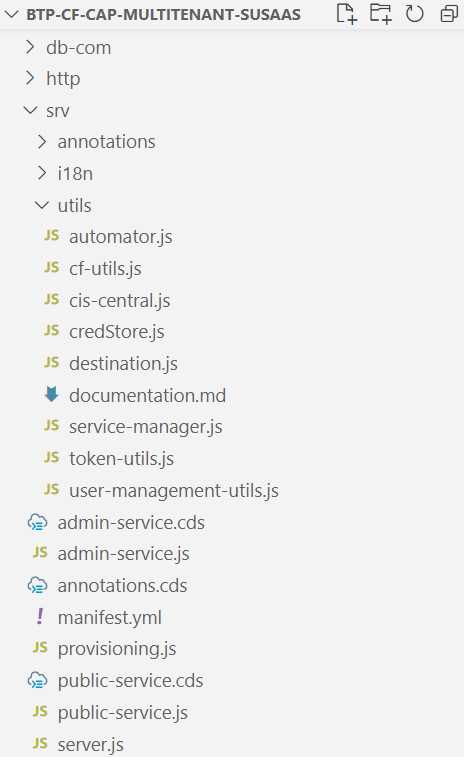
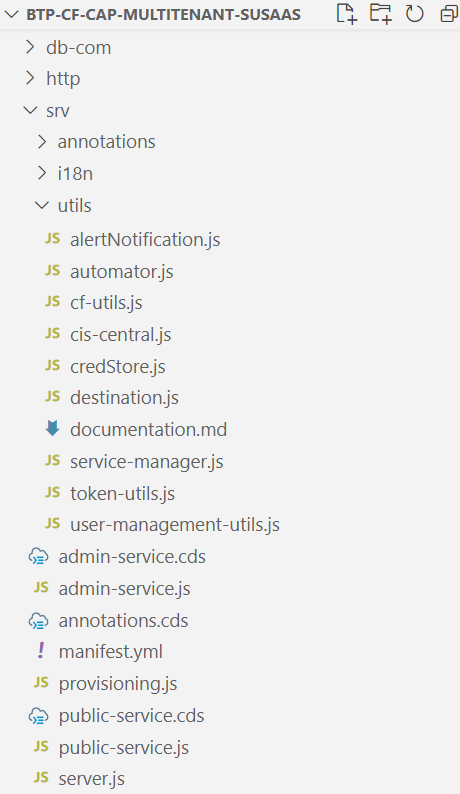
Further documentation updates

Changed region(s): [[0.0304, 0.0, 0.6696, 1.0], [0.7, 0.0, 1.0, 0.0304], [0.0, 0.0, 0.0304, 0.0304]]

diff --git a/docu/2-basic/7-explore-the-components/README.MD b/docu/2-basic/7-explore-the-components/README.MD
@@ -9,6 +9,8 @@ After you have deployed the sample application the following components will be 
 5. [API Broker](#5-api-broker) for creating an API Service Broker
 6. [Tenant database containers](#6-tenant-database-containers) for tenant specific data
 7. [Shared database container](#7-shared-database-container) for data shared among all tenants
+8. [Resiliency components](#8-Resiliency-components) to make the app more resilient
+9. [Further information](#9-Further-Information)
 
 This part of the mission will provide deeper insights of the different components and let's you build up some expert knowledge about topics like **Service Brokers** or **Multitenancy**. The screenshot below shows the architecture of the **Basic Scope** which will run in the **trial** environment seamlessly.
 
@@ -82,3 +84,122 @@ Below you can see an overview the tables deployed into new tenant database conta
 > **Important** - Find more details in the [Shared Container](./components/SharedContainer.MD) Reamde document!
 
 To have the ability to share data among your consumer tenants, a shared database container is setup for the sample scenario. This allows the provider to maintain e.g. master data (Languages, Countries, Currencies) in a central place and update it simultaneously for all consumer tenants. This concept is building on the cross-container access capabilities of database containers in the same Cloud Foundry Space. 
+
+## 8. Resiliency components
+
+To make your SaaS application more resilient additional services are used by the solution. 
+
+**Autoscaler**
+
+The Autoscaler is declared in the deployment descriptor and scaling rules can be defined in the respective **requires** section of the applications using the Autoscaler service instance. Below you can see an up- or downscaling based on memory and CPU consumption of the business application service. 
+
+```yaml
+  # ----------------- AUTOSCALER  ------------------------------------
+  - name: susaas-autoscaler
+  # ------------------------------------------------------------------
+    type: org.cloudfoundry.managed-service
+    parameters:
+      service: autoscaler
+      service-plan: standard
+```
+
+```yaml
+  # --------------------- SERVER MODULE ------------------------
+  - name: susaas-srv
+  # ------------------------------------------------------------
+    type: nodejs
+    path: gen/srv
+    ...
+    
+    requires:
+      - name: susaas-autoscaler
+        parameters:
+          config:
+            instance_min_count: 1
+            instance_max_count: 2
+            scaling_rules:
+            - {"metric_type": "memoryutil","threshold": 80,"operator": ">=","adjustment": "+1"}
+            - {"metric_type": "memoryutil","threshold": 60,"operator": "<","adjustment": "-1"}
+            - {"metric_type": "cpu","threshold": 80,"operator": ">=","adjustment": "+1"}
+            - {"metric_type": "cpu","threshold": 30,"operator": "<","adjustment": "-1"}
+```
+
+**Alert Notification**
+
+The Alert Notification service instance is declared in the deployment descriptor ([mta.yaml](https://github.com/SAP-samples/btp-cf-cap-multitenant-susaas/blob/basic/mta.yaml)) and further detailed configurations can be found in an additional config file ([configs/alert-notif.json](https://github.com/SAP-samples/btp-cf-cap-multitenant-susaas/blob/basic/configs/alert-notif.json)).
+
+```yaml
+  # ----------------- ALERT NOTIFICATION  ---------------------------- 
+  - name: susaas-alert-notification
+  # ------------------------------------------------------------------
+    type: org.cloudfoundry.managed-service
+    parameters:
+      service: alert-notification
+      service-plan: standard
+      service-name: susaas-alert-notification
+      path: ./configs/alert-notif.json
+```
+
+As already explained, please make sure to update the recipient e-mail address in the config file before deploying the solution. After deployment, check your inbox to confirm that Alert Notification may sent e-mails to you.
+
+```json
+{
+    "actions": [
+        {
+            "type": "EMAIL",
+            "name": "send-email",
+            "state": "ENABLED",
+            "properties": {
+                "destination": "recipient@example.org",
+                "useHtml": "false"
+            }
+        }
+    ]
+}
+```
+
+Besides default lifecycle events being monitored by Alert Notification like **Stop** or **Crash** of your application, also a generic alert is defined in the config file. This event type is can e.g., be used from within your application coding. 
+
+```json 
+{
+    "name": "Audit-App-Process-Crash",
+    "propertyKey": "eventType",
+    "propertyValue": "audit.app.process.crash"
+},
+{
+    "name": "Alert-App-Generic",
+    "propertyKey": "eventType",
+    "propertyValue": "alert.app.generic"
+}
+```
+
+A sample of how to manually trigger an Alert Notification event can be found in the error handler of the subscription **UPDATE** implementation ([srv/provisioning.js](https://github.com/SAP-samples/btp-cf-cap-multitenant-susaas/blob/basic/srv/provisioning.js)). The respective helper class can be found in the srv/utils folder ([srv/utils/alertNotification.js](https://github.com/SAP-samples/btp-cf-cap-multitenant-susaas/blob/basic/srv/utils/alertNotification.js)).
+
+```js
+try {
+    let automator = new Automator();
+    await automator.deployTenantArtifacts(tenant, tenantSubdomain, user);
+} catch (error) {
+    console.log("Automation skipped!");
+    await alertNotification.sendEvent({
+        type : 'GENERIC',
+        data : {
+            body : JSON.stringify(error),
+            subject : 'Error during automation of tenant onboarding!',
+            eventType : 'alert.app.generic',
+            severity : 'FATAL',
+            category : 'ALERT'
+        }
+    });
+}
+```
+
+The result of such a custom event looks similar to the following screenshot.
+
+[<img src="./images/AN_ErrorMail.png" width="700"/>](./images/AN_ErrorMail.png)
+
+## 9. Further information
+
+Please use the following links to find further information on the topics above:
+
+* 

diff --git a/docu/2-basic/3-build-deploy-saas-application/README.MD b/docu/2-basic/3-build-deploy-saas-application/README.MD
@@ -72,7 +72,13 @@ $ mbt build
 $ cf deploy mta_archives/<your_mtar_file>
 ```
 
-1.9. Once the deployment has finished, you're almost ready to go. To support some automation steps like the creation of routes or deployment of the API Service Broker in the consumer subaccounts, make sure not to miss the next step before settings up your first consumer subaccount. 
+1.9. After the deployment of the Alert Notification service instance, you should have an e-mail in your inbox, requiring a confirmation that you're willing to receive messages from Alert Notification. Please confirm this request accordingly.
+
+> **Hint** - If you don't receive an e-mail, please make sure you successfully completed step 1.2. of the current chapter. If not, please repeat the previous steps or change the recipient in the existing Alert Notification service instance. Also check your Spam folder. 
+
+[<img src="./images/AN_ConfirmMail.png" width="400"/>](./images/AN_ConfirmMail.png)
+
+1.10. Once the deployment has finished, you're almost ready to go. To support some automation steps like the creation of routes or deployment of the API Service Broker in the consumer subaccounts, make sure not to miss the next step before settings up your first consumer subaccount. 
 
 
 ## 2. Setup the Credential Store
@@ -128,4 +134,12 @@ For troubleshooting please check the separate **Troubleshooting** section of thi
 
 Please use the following links to find further information on the topics above:
 
-* ! Available soon !
+* [npmjs - @sap/sbf Service Broker Framework](https://www.npmjs.com/package/@sap/sbf)
+* [SAP Help - SAP Alert Notification service for SAP BTP](https://help.sap.com/docs/ALERT_NOTIFICATION?locale=en-US)
+* [SAP Help - SAP Alert Notification service for SAP BTP Client](https://github.com/SAP/alert-notification-node-client)
+* [SAP Help - Multitarget Applications in the Cloud Foundry Environment](https://help.sap.com/docs/BTP/65de2977205c403bbc107264b8eccf4b/d04fc0e2ad894545aebfd7126384307c.html?locale=en-US)
+* [SAP Help - Multitarget Application Commands for the Cloud Foundry Environment](https://help.sap.com/docs/BTP/65de2977205c403bbc107264b8eccf4b/65ddb1b51a0642148c6b468a759a8a2e.html?locale=en-US)
+* [Cloud MTA Build Tool (MBT)](https://sap.github.io/cloud-mta-build-tool/)
+* [SAP capire - Providing Initial Data](https://cap.cloud.sap/docs/guides/databases?q=hdbtabledata#providing-initial-data)
+* [SAP capire - Configuration Profiles](https://cap.cloud.sap/docs/node.js/cds-env#profiles)
+* [SAP Help - SAP Credential Store](https://help.sap.com/docs/CREDENTIAL_STORE?locale=en-US)

diff --git a/docu/2-basic/1-understand-repo-structure/README.MD b/docu/2-basic/1-understand-repo-structure/README.MD
@@ -94,7 +94,7 @@ The rest of the **srv** directory contains the implementation of all business ap
 
 | | |
 |:--: | :--- |
-| [<img src="./images/Repo_Structure_Service.png" width="350"/>](./images/Repo_Structure_Service.png) | **i18n -** Language files <br> **utils -** Service utilities (mainly for automation purpose) <br><p style='padding-left:1em'> **automator.js -** Automation scripts <br> **cf-utils.js -** Cloud Foundry utilities <br>**cis-central.js -** Cloud Management Service utilities <br>**credStore.js -** Credential Store utilities <br>**destination.js -** Destination Service utilities <br>**service-manager.js -** Service Manager utilities <br>**token-utils.js -** Token helper utilities <br>**user-management.js -** User management utilities </p> **admin-service.cds -** Admin service definition <br>**admin-service.js -** Admin service handler <br> **annotations.cds -** Annotation file collector <br>**provisioning.js -** Provisioning handler <br> **public-service.cds -** User service definition <br> **public-service.js -** User service handler <br> **server.js -** Custom server.js  |
+| [<img src="./images/Repo_Structure_Service.png" width="350"/>](./images/Repo_Structure_Service.png) | **i18n -** Language files <br> **utils -** Service utilities (mainly for automation purpose) <br><p style='padding-left:1em'> **alertNotification.js -** Alert Notification utilities <br> **automator.js -** Automation scripts <br> **cf-utils.js -** Cloud Foundry utilities <br>**cis-central.js -** Cloud Management Service utilities <br>**credStore.js -** Credential Store utilities <br>**destination.js -** Destination Service utilities <br>**service-manager.js -** Service Manager utilities <br>**token-utils.js -** Token helper utilities <br>**user-management.js -** User management utilities </p> **admin-service.cds -** Admin service definition <br>**admin-service.js -** Admin service handler <br> **annotations.cds -** Annotation file collector <br>**provisioning.js -** Provisioning handler <br> **public-service.cds -** User service definition <br> **public-service.js -** User service handler <br> **server.js -** Custom server.js  |
 
 
 ## 10. API Service

diff --git a/docu/2-basic/4-subscribe-consumer-subaccount/README.MD b/docu/2-basic/4-subscribe-consumer-subaccount/README.MD
@@ -136,4 +136,9 @@ For troubleshooting please check the separate **Troubleshooting** section of thi
 
 Please use the following links to find further information on the topics above:
 
-* ! Available soon !
+* [SAP Help - Subscribe to Multitenant Applications Using the Cockpit](https://help.sap.com/docs/BTP/65de2977205c403bbc107264b8eccf4b/7a3e39622be14413b2a4df7c02ca1170.html?locale=en-US)
+* [SAP Help - Managing Services Using the SAP BTP Cockpit](https://help.sap.com/docs/SERVICEMANAGEMENT/09cc82baadc542a688176dce601398de/cdce096d411242bcbfb9644d0860fd0f.html?locale=en-US)
+* [SAP Help - Creating Service Instances in Cloud Foundry](https://help.sap.com/docs/SERVICEMANAGEMENT/09cc82baadc542a688176dce601398de/6d6846def3c443aa9f83d127353147ce.html?locale=en-US)
+* [SAP Help - Creating Service Keys in Cloud Foundry](https://help.sap.com/docs/SERVICEMANAGEMENT/09cc82baadc542a688176dce601398de/6fcac08409db4b0f9ad55a6acd4d31c5.html?locale=en-US)
+* [SAP Help - Security Administration: Managing Authentication and Authorization](https://help.sap.com/docs/BTP/65de2977205c403bbc107264b8eccf4b/1ff47b2d980e43a6b2ce294352333708.html?locale=en-US)
+* [SAP Help - Assigning Role Collections to Users or User Groups](https://help.sap.com/docs/BTP/65de2977205c403bbc107264b8eccf4b/31532c77bd61421e9d40d100fd75ef52.html?locale=en-US)

diff --git a/docu/2-basic/10-troubleshooting/README.MD b/docu/2-basic/10-troubleshooting/README.MD
@@ -31,6 +31,19 @@ The most probable reason why your deployment might fail are listed below.
         }
 ```
 
+1.4. If the deployment fails because of service plan related issues, you're probably not deploying to a SAP BTP Trial subaccount. The **Basic Scope** deployment descriptor contains e.g., the Credential Store **trial** service plan which is available in Trial accounts only. Please change the mta.yaml file accordingly and change to a service plan available in your environment like e.g., **standard** in case of the Credential Service. 
+
+```yaml
+  # ----------------- CREDENTIAL STORE  -----------------------
+  - name: susaas-credstore
+  # -----------------------------------------------------------
+    type: org.cloudfoundry.managed-service
+    parameters:
+      service: credstore
+      service-plan: trial
+```
+
+
 ## 2. Service Broker Issues
 
 2.1. Make sure that you unregistered all the service brokers before you delete your consumer subaccount. If you face the error below when trying to delete a tenant subaccount probably the reason is you still have **registered service broekers** in your tenant subaccount. 

diff --git a/docu/2-basic/2-prepare-provider-subaccount/README.MD b/docu/2-basic/2-prepare-provider-subaccount/README.MD
@@ -14,11 +14,14 @@ In this chapter you will learn how to prepare your SAP BTP Provider Subaccount f
 
 As already mentioned, a **Trial** account is sufficient for the deployment of the **Basic Scope**. 
 
+> **Important** - As of today, please make sure to create a SAP BTP Trial Account in the **US East (VA)** region (us10) in case you want to test this use-case. The Singapore region does not offer the required SAP HANA Cloud database support for Trial accounts.
+
+After setting up your SAP BTP Trial Account please continue with the following steps.
+
 * Enable the SAP BTP Cloud Foundry environment.
 * Create a SAP BTP Cloud Foundry Space and name it e.g., dev.
 
 Please check the limitations mentioned below when it comes to usage of SAP BTP Trial accounts or free/trial service plans. 
-
 
 ## 2. Entitlements for Provider Subaccount
 
